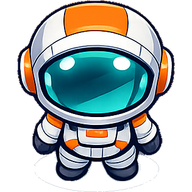
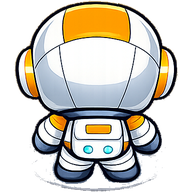
Earth Hub: use the new true back-view sprite for walking up
The first sheet's "up" pose still showed a visor, so walking away from the camera
looked identical to walking toward it. The newly supplied sheet has a real back
view -- helmet from behind, backpack, no visor -- so player-up.png now comes from
that sheet's top-right cell. Confirmed non-visually by counting visor pixels:
3.0% of the body vs 10.1% (down) and 14.3% (side), the residue being the two
small backpack lights rather than a visor.

Also versioned every hub image URL (?a=2). The CSS filename never changed, so a
browser that already cached player-up.png would have kept serving the old visor
pose no matter how far the ?v= CSS token advanced.

diff --git a/game/index.html b/game/index.html
@@ -7,16 +7,16 @@
 <link rel="preconnect" href="https://fonts.googleapis.com" />
 <link rel="preconnect" href="https://fonts.gstatic.com" crossorigin />
 <link href="https://fonts.googleapis.com/css2?family=Cinzel:wght@600;700&family=Patrick+Hand&family=Quicksand:wght@500;600;700&display=swap" rel="stylesheet" />
-<link rel="stylesheet" href="css/styles.css?v=20260805d" />
-<link rel="stylesheet" href="css/map.css?v=20260805d" />
-<link rel="stylesheet" href="css/chest.css?v=20260805d" />
-<link rel="stylesheet" href="css/wonderland.css?v=20260805d" />
-<link rel="stylesheet" href="css/farm.css?v=20260805d" />
-<link rel="stylesheet" href="css/alchemy.css?v=20260805d" />
-<link rel="stylesheet" href="css/item-store.css?v=20260805d" />
-<link rel="stylesheet" href="css/special-store.css?v=20260805d" />
-<link rel="stylesheet" href="css/comeback-arena.css?v=20260805d" />
-<link rel="stylesheet" href="css/systems.css?v=20260805d" />
+<link rel="stylesheet" href="css/styles.css?v=20260805e" />
+<link rel="stylesheet" href="css/map.css?v=20260805e" />
+<link rel="stylesheet" href="css/chest.css?v=20260805e" />
+<link rel="stylesheet" href="css/wonderland.css?v=20260805e" />
+<link rel="stylesheet" href="css/farm.css?v=20260805e" />
+<link rel="stylesheet" href="css/alchemy.css?v=20260805e" />
+<link rel="stylesheet" href="css/item-store.css?v=20260805e" />
+<link rel="stylesheet" href="css/special-store.css?v=20260805e" />
+<link rel="stylesheet" href="css/comeback-arena.css?v=20260805e" />
+<link rel="stylesheet" href="css/systems.css?v=20260805e" />
 </head>
 <body>
 
@@ -617,87 +617,87 @@
        (Not ES modules, so double-clicking this file from disk still works.) -->
   <!-- Config = pure content data (star systems, planets, story, …). Loads FIRST so the
        logic modules below read from it. Add content by editing these — see CONFIG_GUIDE.md. -->
-  <script src="config/worlds.config.js?v=20260805d"></script>
-  <script src="config/curriculum.config.js?v=20260805d"></script>
-  <script src="config/comeback.config.js?v=20260805d"></script>
-  <script src="config/tutorials.config.js?v=20260805d"></script>
-  <script src="config/astro.config.js?v=20260805d"></script>
-  <script src="config/rooms.config.js?v=20260805d"></script>
-  <script src="config/planets.config.js?v=20260805d"></script>
-  <script src="config/story.config.js?v=20260805d"></script>
-  <script src="config/economy.config.js?v=20260805d"></script>
-  <script src="config/elements.config.js?v=20260805d"></script>
-  <script src="config/gear.config.js?v=20260805d"></script>
-  <script src="config/spells.config.js?v=20260805d"></script>
+  <script src="config/worlds.config.js?v=20260805e"></script>
+  <script src="config/curriculum.config.js?v=20260805e"></script>
+  <script src="config/comeback.config.js?v=20260805e"></script>
+  <script src="config/tutorials.config.js?v=20260805e"></script>
+  <script src="config/astro.config.js?v=20260805e"></script>
+  <script src="config/rooms.config.js?v=20260805e"></script>
+  <script src="config/planets.config.js?v=20260805e"></script>
+  <script src="config/story.config.js?v=20260805e"></script>
+  <script src="config/economy.config.js?v=20260805e"></script>
+  <script src="config/elements.config.js?v=20260805e"></script>
+  <script src="config/gear.config.js?v=20260805e"></script>
+  <script src="config/spells.config.js?v=20260805e"></script>
   <!-- Bible-generated curriculum data (tools/build-registries.ps1) — loaded before the logic modules -->
-  <script src="config/generated/curriculum-index.js?v=20260805d"></script>
-  <script src="config/generated/arena-registry.js?v=20260805d"></script>
-  <script src="config/generated/question-templates.js?v=20260805d"></script>
-  <script src="config/generated/hint-registry.js?v=20260805d"></script>
-  <script src="config/generated/tutorial-registry.js?v=20260805d"></script>
-  <script src="config/generated/socratic-registry.js?v=20260805d"></script>
-  <script src="config/generated/misconception-registry.js?v=20260805d"></script>
-  <script src="config/generated/prereq-graph.js?v=20260805d"></script>
-  <script src="js/01-data.js?v=20260805d"></script>
-  <script src="js/02-dom.js?v=20260805d"></script>
-  <script src="js/03-save.js?v=20260805d"></script>
-  <script src="js/04-logic.js?v=20260805d"></script>
-  <script src="js/09-items.js?v=20260805d"></script>
-  <script src="js/21-catalogue.js?v=20260805d"></script>
-  <script src="js/14-lore.js?v=20260805d"></script>
-  <script src="js/05-render.js?v=20260805d"></script>
-  <script src="js/06-gear-shop.js?v=20260805d"></script>
-  <script src="js/06b-monster-roster.js?v=20260805d"></script>
-  <script src="js/06c-monster-select.js?v=20260805d"></script>
-  <script src="js/06d-combat-round.js?v=20260805d"></script>
-  <script src="js/06e-combat-outcome.js?v=20260805d"></script>
-  <script src="js/13-audio.js?v=20260805d"></script>
-  <script src="js/15-map.js?v=20260805d"></script>
-  <script src="js/16-chest.js?v=20260805d"></script>
-  <script src="js/17-wonderland.js?v=20260805d"></script>
-  <script src="js/34-wonder-games.js?v=20260805d"></script>
-  <script src="js/35-block-forge.js?v=20260805d"></script>
-  <script src="js/36-arcade.js?v=20260805d"></script>
-  <script src="js/18-farm.js?v=20260805d"></script>
-  <script src="js/19-alchemy.js?v=20260805d"></script>
-  <script src="js/20-item-store.js?v=20260805d"></script>
-  <script src="js/26-spells.js?v=20260805d"></script>
-  <script src="js/22-profile.js?v=20260805d"></script>
-  <script src="js/24-trading.js?v=20260805d"></script>
-  <script src="js/25-nav.js?v=20260805d"></script>
-  <script src="js/27-hoohey.js?v=20260805d"></script>
-  <script src="js/28-arena-generators.js?v=20260805d"></script>
-  <script src="js/29-tutorial.js?v=20260805d"></script>
-  <script src="js/30-bodyart.js?v=20260805d"></script>
-  <script src="js/31-graph.js?v=20260805d"></script>
-  <script src="js/cloud-save.js?v=20260805d"></script>
-  <script src="js/cloud-ui.js?v=20260805d"></script>
-  <script src="js/07-main.js?v=20260805d"></script>
-  <script src="js/08-layout.js?v=20260805d"></script>
-  <script src="js/32-tooltip.js?v=20260805d"></script>
-  <script src="js/33-variety.js?v=20260805d"></script>
-  <script src="js/37-socratic.js?v=20260805d"></script>
-  <script src="js/38-infinity.js?v=20260805d"></script>
-  <script src="js/39-a2-shell.js?v=20260805d"></script>
-  <script src="js/39b-cargo-glacier.js?v=20260805d"></script>
-  <script src="js/39c-forbidden-city.js?v=20260805d"></script>
-  <script src="js/39d-circuit-loop.js?v=20260805d"></script>
-  <script src="js/39e-sky-stacker.js?v=20260805d"></script>
-  <script src="js/43-astro-drop.js?v=20260805d"></script>
-  <script src="js/44-virus-lab.js?v=20260805d"></script>
-  <script src="js/45-comet-muncher.js?v=20260805d"></script>
-  <script src="js/46-blast-bot.js?v=20260805d"></script>
-  <script src="js/47-bubble-blast.js?v=20260805d"></script>
-  <script src="js/48-bowling.js?v=20260805d"></script>
-  <script src="js/49-cosmic-rhythm.js?v=20260805d"></script>
-  <script src="js/50-snake.js?v=20260805d"></script>
-  <script src="js/51-crystal-cascade.js?v=20260805d"></script>
-  <script src="js/41-slots.js?v=20260805d"></script>
-  <script src="js/42-special-store.js?v=20260805d"></script>
-  <script src="js/52-comeback-arena.js?v=20260805d"></script>
-  <script src="js/53-cloudberry.js?v=20260805d"></script>
-  <script src="js/54-sky-squadron.js?v=20260805d"></script>
-  <script src="js/cloud-auth.js?v=20260805d"></script>
+  <script src="config/generated/curriculum-index.js?v=20260805e"></script>
+  <script src="config/generated/arena-registry.js?v=20260805e"></script>
+  <script src="config/generated/question-templates.js?v=20260805e"></script>
+  <script src="config/generated/hint-registry.js?v=20260805e"></script>
+  <script src="config/generated/tutorial-registry.js?v=20260805e"></script>
+  <script src="config/generated/socratic-registry.js?v=20260805e"></script>
+  <script src="config/generated/misconception-registry.js?v=20260805e"></script>
+  <script src="config/generated/prereq-graph.js?v=20260805e"></script>
+  <script src="js/01-data.js?v=20260805e"></script>
+  <script src="js/02-dom.js?v=20260805e"></script>
+  <script src="js/03-save.js?v=20260805e"></script>
+  <script src="js/04-logic.js?v=20260805e"></script>
+  <script src="js/09-items.js?v=20260805e"></script>
+  <script src="js/21-catalogue.js?v=20260805e"></script>
+  <script src="js/14-lore.js?v=20260805e"></script>
+  <script src="js/05-render.js?v=20260805e"></script>
+  <script src="js/06-gear-shop.js?v=20260805e"></script>
+  <script src="js/06b-monster-roster.js?v=20260805e"></script>
+  <script src="js/06c-monster-select.js?v=20260805e"></script>
+  <script src="js/06d-combat-round.js?v=20260805e"></script>
+  <script src="js/06e-combat-outcome.js?v=20260805e"></script>
+  <script src="js/13-audio.js?v=20260805e"></script>
+  <script src="js/15-map.js?v=20260805e"></script>
+  <script src="js/16-chest.js?v=20260805e"></script>
+  <script src="js/17-wonderland.js?v=20260805e"></script>
+  <script src="js/34-wonder-games.js?v=20260805e"></script>
+  <script src="js/35-block-forge.js?v=20260805e"></script>
+  <script src="js/36-arcade.js?v=20260805e"></script>
+  <script src="js/18-farm.js?v=20260805e"></script>
+  <script src="js/19-alchemy.js?v=20260805e"></script>
+  <script src="js/20-item-store.js?v=20260805e"></script>
+  <script src="js/26-spells.js?v=20260805e"></script>
+  <script src="js/22-profile.js?v=20260805e"></script>
+  <script src="js/24-trading.js?v=20260805e"></script>
+  <script src="js/25-nav.js?v=20260805e"></script>
+  <script src="js/27-hoohey.js?v=20260805e"></script>
+  <script src="js/28-arena-generators.js?v=20260805e"></script>
+  <script src="js/29-tutorial.js?v=20260805e"></script>
+  <script src="js/30-bodyart.js?v=20260805e"></script>
+  <script src="js/31-graph.js?v=20260805e"></script>
+  <script src="js/cloud-save.js?v=20260805e"></script>
+  <script src="js/cloud-ui.js?v=20260805e"></script>
+  <script src="js/07-main.js?v=20260805e"></script>
+  <script src="js/08-layout.js?v=20260805e"></script>
+  <script src="js/32-tooltip.js?v=20260805e"></script>
+  <script src="js/33-variety.js?v=20260805e"></script>
+  <script src="js/37-socratic.js?v=20260805e"></script>
+  <script src="js/38-infinity.js?v=20260805e"></script>
+  <script src="js/39-a2-shell.js?v=20260805e"></script>
+  <script src="js/39b-cargo-glacier.js?v=20260805e"></script>
+  <script src="js/39c-forbidden-city.js?v=20260805e"></script>
+  <script src="js/39d-circuit-loop.js?v=20260805e"></script>
+  <script src="js/39e-sky-stacker.js?v=20260805e"></script>
+  <script src="js/43-astro-drop.js?v=20260805e"></script>
+  <script src="js/44-virus-lab.js?v=20260805e"></script>
+  <script src="js/45-comet-muncher.js?v=20260805e"></script>
+  <script src="js/46-blast-bot.js?v=20260805e"></script>
+  <script src="js/47-bubble-blast.js?v=20260805e"></script>
+  <script src="js/48-bowling.js?v=20260805e"></script>
+  <script src="js/49-cosmic-rhythm.js?v=20260805e"></script>
+  <script src="js/50-snake.js?v=20260805e"></script>
+  <script src="js/51-crystal-cascade.js?v=20260805e"></script>
+  <script src="js/41-slots.js?v=20260805e"></script>
+  <script src="js/42-special-store.js?v=20260805e"></script>
+  <script src="js/52-comeback-arena.js?v=20260805e"></script>
+  <script src="js/53-cloudberry.js?v=20260805e"></script>
+  <script src="js/54-sky-squadron.js?v=20260805e"></script>
+  <script src="js/cloud-auth.js?v=20260805e"></script>
 
 </body>
 </html>

diff --git a/game/css/map.css b/game/css/map.css
@@ -68,7 +68,7 @@
     left: 0; top: 0;
     width: calc(var(--wmap-cols) * var(--wmap-tile));
     height: calc(var(--wmap-rows) * var(--wmap-tile));
-    background: url('../assets/hub/ground.png') top left / calc(var(--wmap-tile) * 4) repeat;
+    background: url('../assets/hub/ground.png?a=2') top left / calc(var(--wmap-tile) * 4) repeat;
     transition: transform 130ms linear;    /* camera glide; matches WMAP_STEP_MS */
   }
   .wmap-tile{
@@ -82,11 +82,11 @@
     background: rgba(0,0,0,0.05);           /* whisper-faint checker so steps still read */
   }
   .wmap-t-wall{
-    background-image: url('../assets/hub/wall.png');
+    background-image: url('../assets/hub/wall.png?a=2');
     box-shadow: inset 0 -4px rgba(0,0,0,.30), inset 0 2px rgba(255,255,255,.07);
   }
   .wmap-t-water{
-    background-image: url('../assets/hub/water.png');
+    background-image: url('../assets/hub/water.png?a=2');
     box-shadow: inset 0 0 14px rgba(0,0,0,.35);
   }
   /* Tree sits ON the grass, slightly oversized and nudged up so its canopy overlaps the tile above
@@ -98,7 +98,7 @@
     height: calc(var(--wmap-tile) * 1.3);
     margin-left: calc(var(--wmap-tile) * -0.15);
     margin-top: calc(var(--wmap-tile) * -0.3);
-    background-image: url('../assets/hub/tree.png');
+    background-image: url('../assets/hub/tree.png?a=2');
     background-size: contain;
     background-position: center bottom;
     background-repeat: no-repeat;
@@ -146,15 +146,15 @@
   /* Per-building artwork. NOTE: the two shop images were supplied swapped (the file named "Weapon
      Store" is a potion shop, "Item Store" is a forge); the prep script maps each to the building it
      actually depicts, so these ids line up with the right picture. */
-  .wmap-building[data-id="weapon"] { background-image: url('../assets/hub/b-weapon.png'); }
-  .wmap-building[data-id="item"]   { background-image: url('../assets/hub/b-item.png'); }
-  .wmap-building[data-id="alchemy"]{ background-image: url('../assets/hub/b-alchemy.png'); }
-  .wmap-building[data-id="hotel"]  { background-image: url('../assets/hub/b-hotel.png'); }
-  .wmap-building[data-id="wonder"] { background-image: url('../assets/hub/b-wonder.png'); }
-  .wmap-building[data-id="trading"]{ background-image: url('../assets/hub/b-trading.png'); }
-  .wmap-building[data-id="practice"]{background-image: url('../assets/hub/b-practice.png'); }
-  .wmap-building[data-id="farm"]   { background-image: url('../assets/hub/b-farm.png'); }
-  .wmap-building[data-id="special"]{ background-image: url('../assets/hub/b-special.png'); }
+  .wmap-building[data-id="weapon"] { background-image: url('../assets/hub/b-weapon.png?a=2'); }
+  .wmap-building[data-id="item"]   { background-image: url('../assets/hub/b-item.png?a=2'); }
+  .wmap-building[data-id="alchemy"]{ background-image: url('../assets/hub/b-alchemy.png?a=2'); }
+  .wmap-building[data-id="hotel"]  { background-image: url('../assets/hub/b-hotel.png?a=2'); }
+  .wmap-building[data-id="wonder"] { background-image: url('../assets/hub/b-wonder.png?a=2'); }
+  .wmap-building[data-id="trading"]{ background-image: url('../assets/hub/b-trading.png?a=2'); }
+  .wmap-building[data-id="practice"]{background-image: url('../assets/hub/b-practice.png?a=2'); }
+  .wmap-building[data-id="farm"]   { background-image: url('../assets/hub/b-farm.png?a=2'); }
+  .wmap-building[data-id="special"]{ background-image: url('../assets/hub/b-special.png?a=2'); }
   /* The name rides just UNDER its tile so it never covers the artwork or the neighbouring path. */
   .wmap-bname{
     position: absolute;
@@ -205,15 +205,15 @@
     display: block;
     width: 128%;
     height: 128%;
-    background: url('../assets/hub/player-down.png') center bottom / contain no-repeat;
+    background: url('../assets/hub/player-down.png?a=2') center bottom / contain no-repeat;
     filter: drop-shadow(0 4px 5px rgba(0,0,0,0.55));
   }
-  .wmap-avatar[data-face="up"]   .wmap-avatar-flip{ background-image: url('../assets/hub/player-up.png'); }
-  .wmap-avatar[data-face="down"] .wmap-avatar-flip{ background-image: url('../assets/hub/player-down.png'); }
+  .wmap-avatar[data-face="up"]   .wmap-avatar-flip{ background-image: url('../assets/hub/player-up.png?a=2'); }
+  .wmap-avatar[data-face="down"] .wmap-avatar-flip{ background-image: url('../assets/hub/player-down.png?a=2'); }
   /* One side pose, mirrored for the other direction. The art faces LEFT as drawn — measured, not
      eyeballed: the cyan visor's centre of mass sits ~34px LEFT of the body's centre. So the RIGHT
      case is the one that flips. (Shipped backwards first time round on a guess that it faced right.) */
-  .wmap-avatar[data-face="side"] .wmap-avatar-flip{ background-image: url('../assets/hub/player-side.png'); }
+  .wmap-avatar[data-face="side"] .wmap-avatar-flip{ background-image: url('../assets/hub/player-side.png?a=2'); }
   .wmap-avatar-emoji{ display: none; }      /* emoji fallback retired — real artwork now */
   /* Flip goes on the PARENT, bob on the child: both are `transform`, and an animation on the same
      element would win outright and silently drop the mirroring while walking left. */

diff --git a/tools/prep_hub_art.py b/tools/prep_hub_art.py
@@ -46,11 +46,22 @@ SPRITES = [
     ("\U0001f3ed Special Item Store.png", "b-special.png"),
 ]
 
-PLAYER_SRC = "Player (4 facings, one sheet).png"
-# 2x2 sheet: top-left = opaque visor, no face (facing away) = up; top-right = face visible = down.
-# Only ONE side pose is exported ("side", the bottom-right cell); the game mirrors it with
-# scaleX(-1) for the other direction. That removes any chance of shipping left/right reversed.
-PLAYER_CELLS = [("up", 0, 0), ("down", 1, 0), ("side", 1, 1)]
+# Player poses, each (source sheet, cell-x, cell-y, output name). Every sheet is a 2x2 grid.
+#
+# "up" comes from a SECOND, later sheet (2026-08-05, player: "the up facing one should be this
+# guy"): the first sheet's top-left pose still showed a visor, so walking away from the camera
+# looked like walking toward it. The newer sheet has a true back view — helmet only, no visor.
+#
+# Only ONE side pose is exported; the game mirrors it with scaleX(-1) for the other direction, so
+# left/right can't be shipped as two separately-wrong images. NOTE the art faces LEFT (measured via
+# the visor's offset from the body centre), so map.css flips for RIGHT.
+PLAYER_SHEET_A = "Player (4 facings, one sheet).png"
+PLAYER_SHEET_B = "ChatGPT Image Aug 8, 2026, 06_59_18 PM.png"
+PLAYER_POSES = [
+    (PLAYER_SHEET_B, 1, 0, "player-up.png"),     # true back view — helmet, no visor
+    (PLAYER_SHEET_A, 1, 0, "player-down.png"),   # face visible through the visor
+    (PLAYER_SHEET_A, 1, 1, "player-side.png"),   # faces LEFT as drawn
+]
 
 SPRITE_PX = 256
 # Tolerances are deliberately loose: these backgrounds are smooth vignettes WITH a soft glow halo
@@ -182,20 +193,19 @@ def main():
         report.append(f"sprite   {dst:16s} {SPRITE_PX}x{SPRITE_PX}  opaque={op:5.1f}%  "
                       f"{os.path.getsize(os.path.join(OUT, dst))//1024}KB")
 
-    pp = os.path.join(SRC, PLAYER_SRC)
-    if os.path.exists(pp):
+    for sheet_name, cx, cy, dst in PLAYER_POSES:
+        pp = os.path.join(SRC, sheet_name)
+        if not os.path.exists(pp):
+            report.append(f"MISSING player sheet {sheet_name}")
+            continue
         sheet = Image.open(pp).convert("RGBA")
         cw, ch = sheet.width // 2, sheet.height // 2
-        for name, cx, cy in PLAYER_CELLS:
-            cell = sheet.crop((cx * cw, cy * ch, (cx + 1) * cw, (cy + 1) * ch))
-            out = trim_and_fit(remove_bg(cell), 192)
-            dst = f"player-{name}.png"
-            out.save(os.path.join(OUT, dst), optimize=True)
-            op = (np.asarray(out)[:, :, 3] > 0).mean() * 100
-            report.append(f"player   {dst:16s} 192x192  opaque={op:5.1f}%  "
-                          f"{os.path.getsize(os.path.join(OUT, dst))//1024}KB")
-    else:
-        report.append("MISSING player sheet")
+        cell = sheet.crop((cx * cw, cy * ch, (cx + 1) * cw, (cy + 1) * ch))
+        out = trim_and_fit(remove_bg(cell), 192)
+        out.save(os.path.join(OUT, dst), optimize=True)
+        op = (np.asarray(out)[:, :, 3] > 0).mean() * 100
+        report.append(f"player   {dst:16s} 192x192  opaque={op:5.1f}%  "
+                      f"{os.path.getsize(os.path.join(OUT, dst))//1024}KB")
 
     print("\n".join(report))
 
